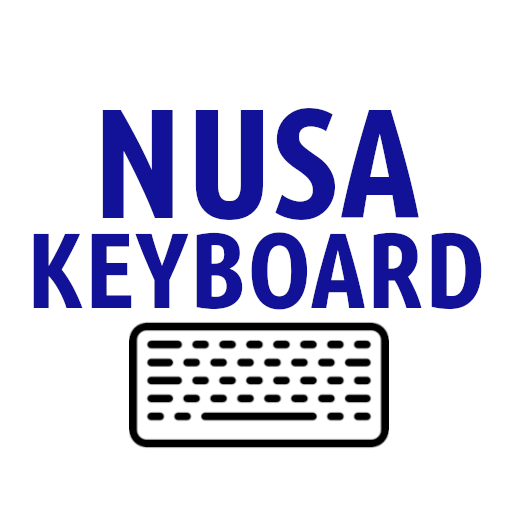
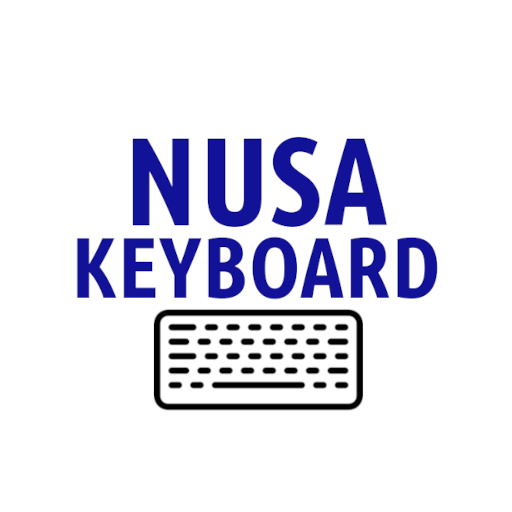
Added TowiTowi app

Changed region(s): [[0.0625, 0.1875, 0.9375, 0.875]]

diff --git a/index.html b/index.html
@@ -4,7 +4,7 @@
 <head>
     <meta charset="UTF-8">
     <meta name="viewport" content="width=device-width, initial-scale=1.0">
-    <title data-translate-key="pageTitle">Nusa Apps - Supporting wiki volunteers in Indonesia</title>
+    <title data-translate-key="pageTitle">My Apps - Supporting wiki volunteers and beyond</title>
     <link rel="stylesheet" href="https://stackpath.bootstrapcdn.com/bootstrap/4.5.2/css/bootstrap.min.css">
     <link rel="stylesheet" href="style.css">
 </head>
@@ -12,7 +12,7 @@
 <body>
     <nav class="navbar navbar-expand-lg navbar-dark bg-primary fixed-top">
         <div class="container">
-            <a class="navbar-brand" href="#" data-translate-key="navBrand">Nusa Apps</a>
+            <a class="navbar-brand" href="#" data-translate-key="navBrand">My Apps</a>
             <button class="navbar-toggler" type="button" data-toggle="collapse" data-target="#navbarNav"
                 aria-controls="navbarNav" aria-expanded="false" aria-label="Toggle navigation">
                 <span class="navbar-toggler-icon"></span>
@@ -36,7 +36,7 @@
 
     <header class="jumbotron jumbotron-fluid text-center bg-light app-hero">
         <div class="container">
-            <h1 class="display-4" data-translate-key="heroTitle">Empowering Wiki Volunteers</h1>
+            <h1 class="display-4" data-translate-key="heroTitle">Empowering Wiki Volunteers and Beyond</h1>
             <p class="lead" data-translate-key="heroLead">A collection of tools and apps to support volunteers writing
                 on various Wikimedia projects in local languages in Indonesia.</p>
         </div>
@@ -46,6 +46,28 @@
         <!-- Section: Active Apps -->
         <h2 class="text-center mb-5 section-title" data-translate-key="activeAppsSectionTitle">Active Applications</h2>
         <div class="row justify-content-center">
+            <!-- App: TowiTowi -->
+            <div class="col-md-6 col-lg-4 mb-4">
+                <div class="card h-100 app-card">
+                    <a href="https://sslaia.github.io/towitowi" target="_blank" rel="noopener noreferrer"
+                        class="app-icon-wrapper">
+                        <img src="images/towitowi-icon.png" class="app-icon" alt="TowiTowi Icon">
+                    </a>
+                    <div class="card-body d-flex flex-column">
+                        <h5 class="card-title text-center"><a href="https://sslaia.github.io/towitowi">TowiTowi</a></h5>
+                        <p class="card-text" data-translate-key="towitowiDesc">An simple but powerful note-taking app that can also be your daily journal app. You are in control, however if you need a little lift, just ask Gemini AI for little help, either to restructure your fleeting thought, polish your long notes, or craft social media posts.</p>
+                        <div class="mt-auto">
+                            <a href="https://play.google.com/store/apps/details?id=io.github.sslaia.towitowi"
+                                class="btn btn-modern btn-modern-success btn-block" target="_blank"
+                                rel="noopener noreferrer" data-translate-key="getOnPlayStore">Get on Google Play</a>
+                            <a href="https://github.com/sslaia/towitowi"
+                                class="btn btn-modern btn-modern-secondary btn-block mt-2" target="_blank"
+                                rel="noopener noreferrer" data-translate-key="getOnGithub">View on GitHub</a>
+                        </div>
+                    </div>
+                </div>
+            </div>
+
             <!-- App: WikiNusa -->
             <div class="col-md-6 col-lg-4 mb-4">
                 <div class="card h-100 app-card">
@@ -297,7 +319,7 @@
     <footer class="text-center py-4 bg-dark text-white">
         <p>© <span id="currentYear"></span> sslaia. <span data-translate-key="footerRights">All rights reserved.</span>
         </p>
-        <p data-translate-key="footerSubtitle">Wiki Volunteer Tools Showcase</p>
+        <p data-translate-key="footerSubtitle">My Apps Showcase</p>
     </footer>
 
     <script>

diff --git a/lang.js b/lang.js
@@ -1,14 +1,15 @@
 const translations = {
     en: {
-        pageTitle: "Nusa Apps - Supporting wiki volunteers in Indonesia",
-        navBrand: "Nusa Apps",
+        pageTitle: "My Apps - Supporting wiki volunteers and beyond",
+        navBrand: "My Apps",
         selectedLanguageLabel: "English",
-        heroTitle: "Empowering Wiki Volunteers",
+        heroTitle: "Empowering Wiki Volunteers and Beyond",
         heroLead: "A collection of tools and apps to support volunteers writing on various Wikimedia projects in local languages in Indonesia.",
         activeAppsSectionTitle: "Active Applications",
         wikinusaDesc: "A do-it-all app for Wikipedia, Wiktionary and Wikibooks. Perfect for those who works regularly on several wiki projects.",
         nusaKeyboardDesc: "A comprehensive keyboard featuring spelling checks, layout support, and wiki code tools for Nias and other regional languages in Indonesia. Built as a unified modern successor to Nias Keyboard and Nias for AnySoftKeyboard.",
         niasExtKbDesc: "An add-on that enables Nias language layout and character support for physical external keyboards connected to Android devices.",
+        towitowiDesc: "An simple but powerful note-taking app that can also be your daily journal app. You are in control, however if you need a little lift, just ask Gemini AI for little help, either to restructure your fleeting thought, polish your long notes, or craft social media posts.",
         legacySectionTitle: "Guard of Honor",
         legacySectionDesc: "These apps have served many users over the years (for instance, the WikiNias app is still actively used by many). Although they are no longer available on the Google Play Store for new users, their open-source code remains available on GitHub for the community.",
         activeUsersBadge: "Active Users",
@@ -19,7 +20,7 @@ const translations = {
         aboutMeP1: "I am Sirus Laia, a developer passionate about supporting volunteers and preserving local languages through technology. These applications are my contribution to making knowledge more accessible in local languages.",
         myGithubProfile: "My GitHub Profile",
         footerRights: "All rights reserved.",
-        footerSubtitle: "Wiki Volunteer Tools Showcase",
+        footerSubtitle: "My Apps Showcase",
         // Legacy apps descriptions (for reference or hover)
         wikiniasDesc: "An all-in-one app for editing Nias Wikipedia, Nias Wikikamus, and Nias Wikibuku. Join us to make Nias language present on the digital space.",
         nusapediaDesc: "An app for accessing Wikipedia in 11 local languages in Indonesia. Read and edit Wikipedia pages in your mother tongue.",
@@ -28,16 +29,17 @@ const translations = {
         niasAskDesc: "A language pack providing Nias language support for the popular AnySoftKeyboard app."
     },
     id: {
-        pageTitle: "Aplikasi Nusa - Mendukung relawan wiki di Indonesia",
-        navBrand: "Aplikasi Nusa",
+        pageTitle: "Aplikasi Saya - Mendukung relawan wiki dan lainnya",
+        navBrand: "Aplikasi Saya",
         selectedLanguageLabel: "Indonesia",
-        heroTitle: "Memberdayakan Relawan Wiki",
+        heroTitle: "Memberdayakan Relawan Wiki dan Lainnya",
         heroLead: "Koleksi alat dan aplikasi untuk mendukung relawan yang menulis di berbagai proyek Wikimedia dalam bahasa daerah di Indonesia.",
         activeAppsSectionTitle: "Aplikasi Aktif",
         wikinusaDesc: "Aplikasi yang bisa mengakses Wikipedia, Wikikamus dan Wikibuku. Bagus bagi mereka yang suka gonta-ganti proyek wiki.",
         nusaKeyboardDesc: "Papan ketik komprehensif yang dilengkapi dengan pemeriksaan ejaan, dukungan tata letak, dan alat kode wiki untuk bahasa Nias dan bahasa daerah lainnya di Indonesia. Dikembangkan sebagai penerus modern yang menyatukan Nias Keyboard dan Nias untuk AnySoftKeyboard.",
         niasExtKbDesc: "Add-on yang mengaktifkan tata letak bahasa Nias dan dukungan karakter untuk papan ketik eksternal fisik yang terhubung ke perangkat Android.",
-        legacySectionTitle: "Papan Kehormatan (Aplikasi Warisan)",
+        towitowiDesc: "Sebuah aplikasi catatan harian yang sederhana tetapi hebat. Tentu saja Anda memegang kendali, namun jika Anda membutuhkan sedikit bantuan, cukup minta bantuan Gemini AI, baik untuk menyusun ulang pemikiran Anda yang sekilas, memoles catatan panjang Anda, atau membuat unggahan media sosial.",
+        legacySectionTitle: "Papan Kehormatan",
         legacySectionDesc: "Aplikasi-aplikasi ini telah melayani banyak pengguna selama bertahun-tahun (misalnya, aplikasi WikiNias masih aktif digunakan oleh banyak orang). Meskipun tidak lagi tersedia di Google Play Store untuk pengguna baru, kode sumber terbuka mereka tetap tersedia di GitHub untuk komunitas.",
         activeUsersBadge: "Masih Aktif",
         legacyBadge: "Diarsipkan",
@@ -47,7 +49,7 @@ const translations = {
         aboutMeP1: "Saya Sirus Laia, seorang pengembang yang bersemangat dalam mendukung relawan dan melestarikan bahasa daerah melalui teknologi. Aplikasi-aplikasi ini adalah kontribusi saya untuk membuat pengetahuan lebih mudah diakses dalam bahasa daerah.",
         myGithubProfile: "Profil GitHub Saya",
         footerRights: "Hak cipta dilindungi.",
-        footerSubtitle: "Pameran Alat Relawan Wiki",
+        footerSubtitle: "Pameran Aplikasi Saya",
         // Legacy apps descriptions
         wikiniasDesc: "Aplikasi lengkap untuk menyunting Wikipedia, Wikikamus, dan Wikibuku dalam bahasa Nias. Mari berkontribusi menghadirkan bahasa Nias di dunia digital.",
         nusapediaDesc: "Aplikasi untuk mengakses Wikipedia dalam 11 bahasa daerah di Indonesia. Jelajahi pengetahuan dalam bahasa ibu Anda.",